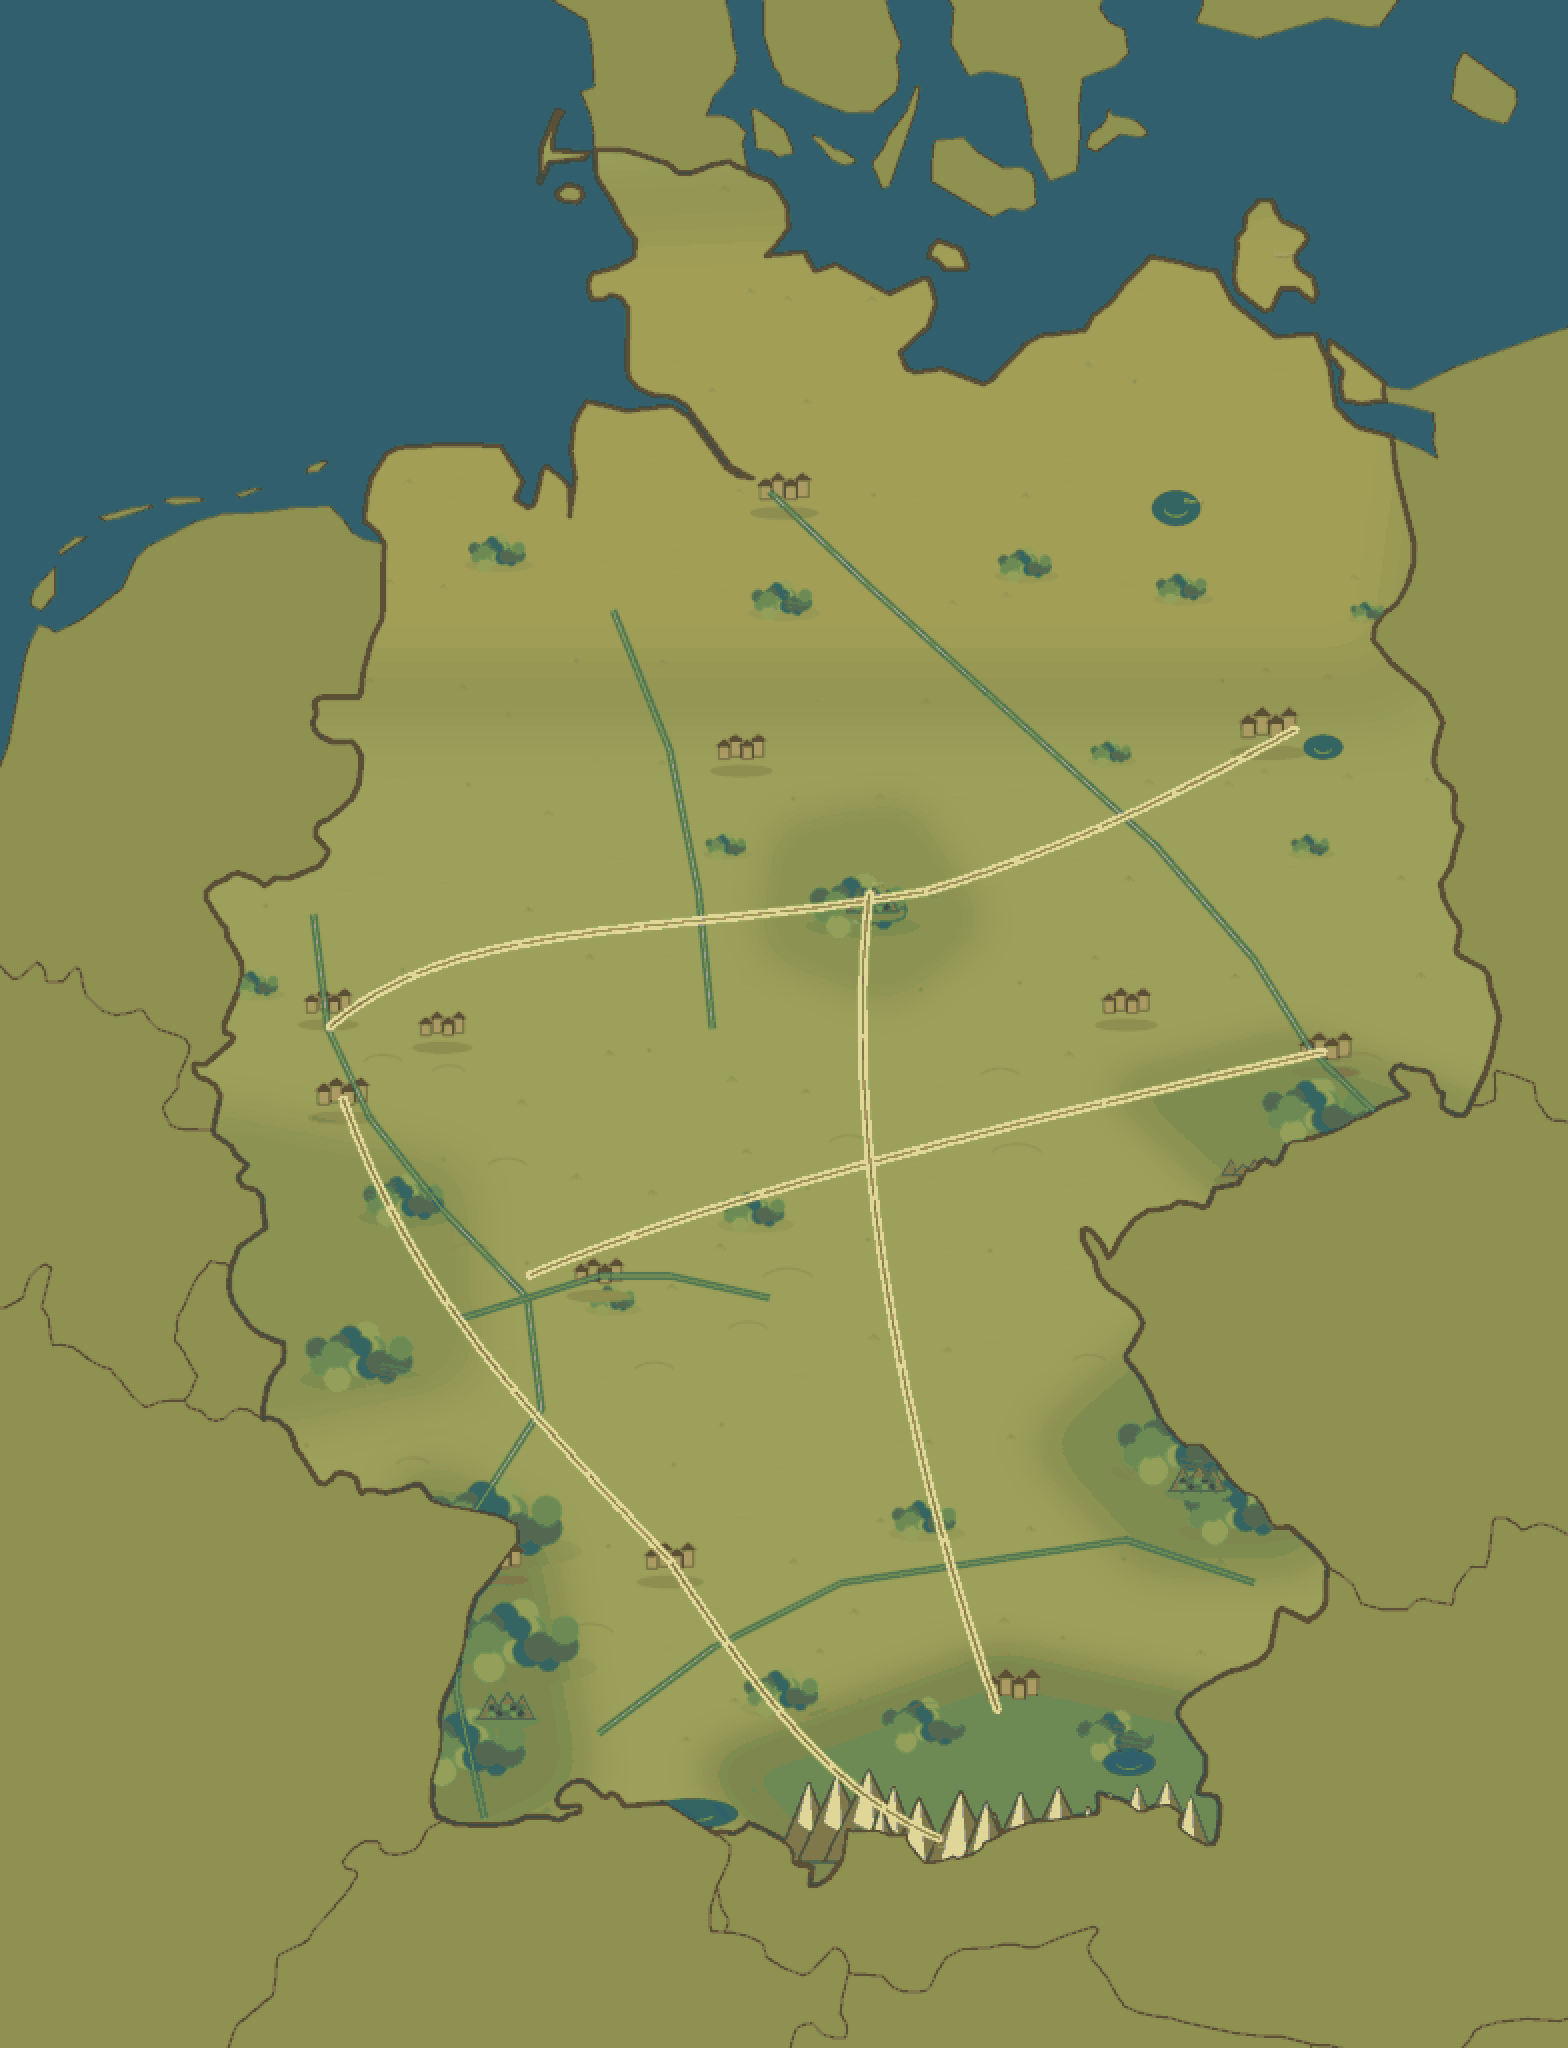
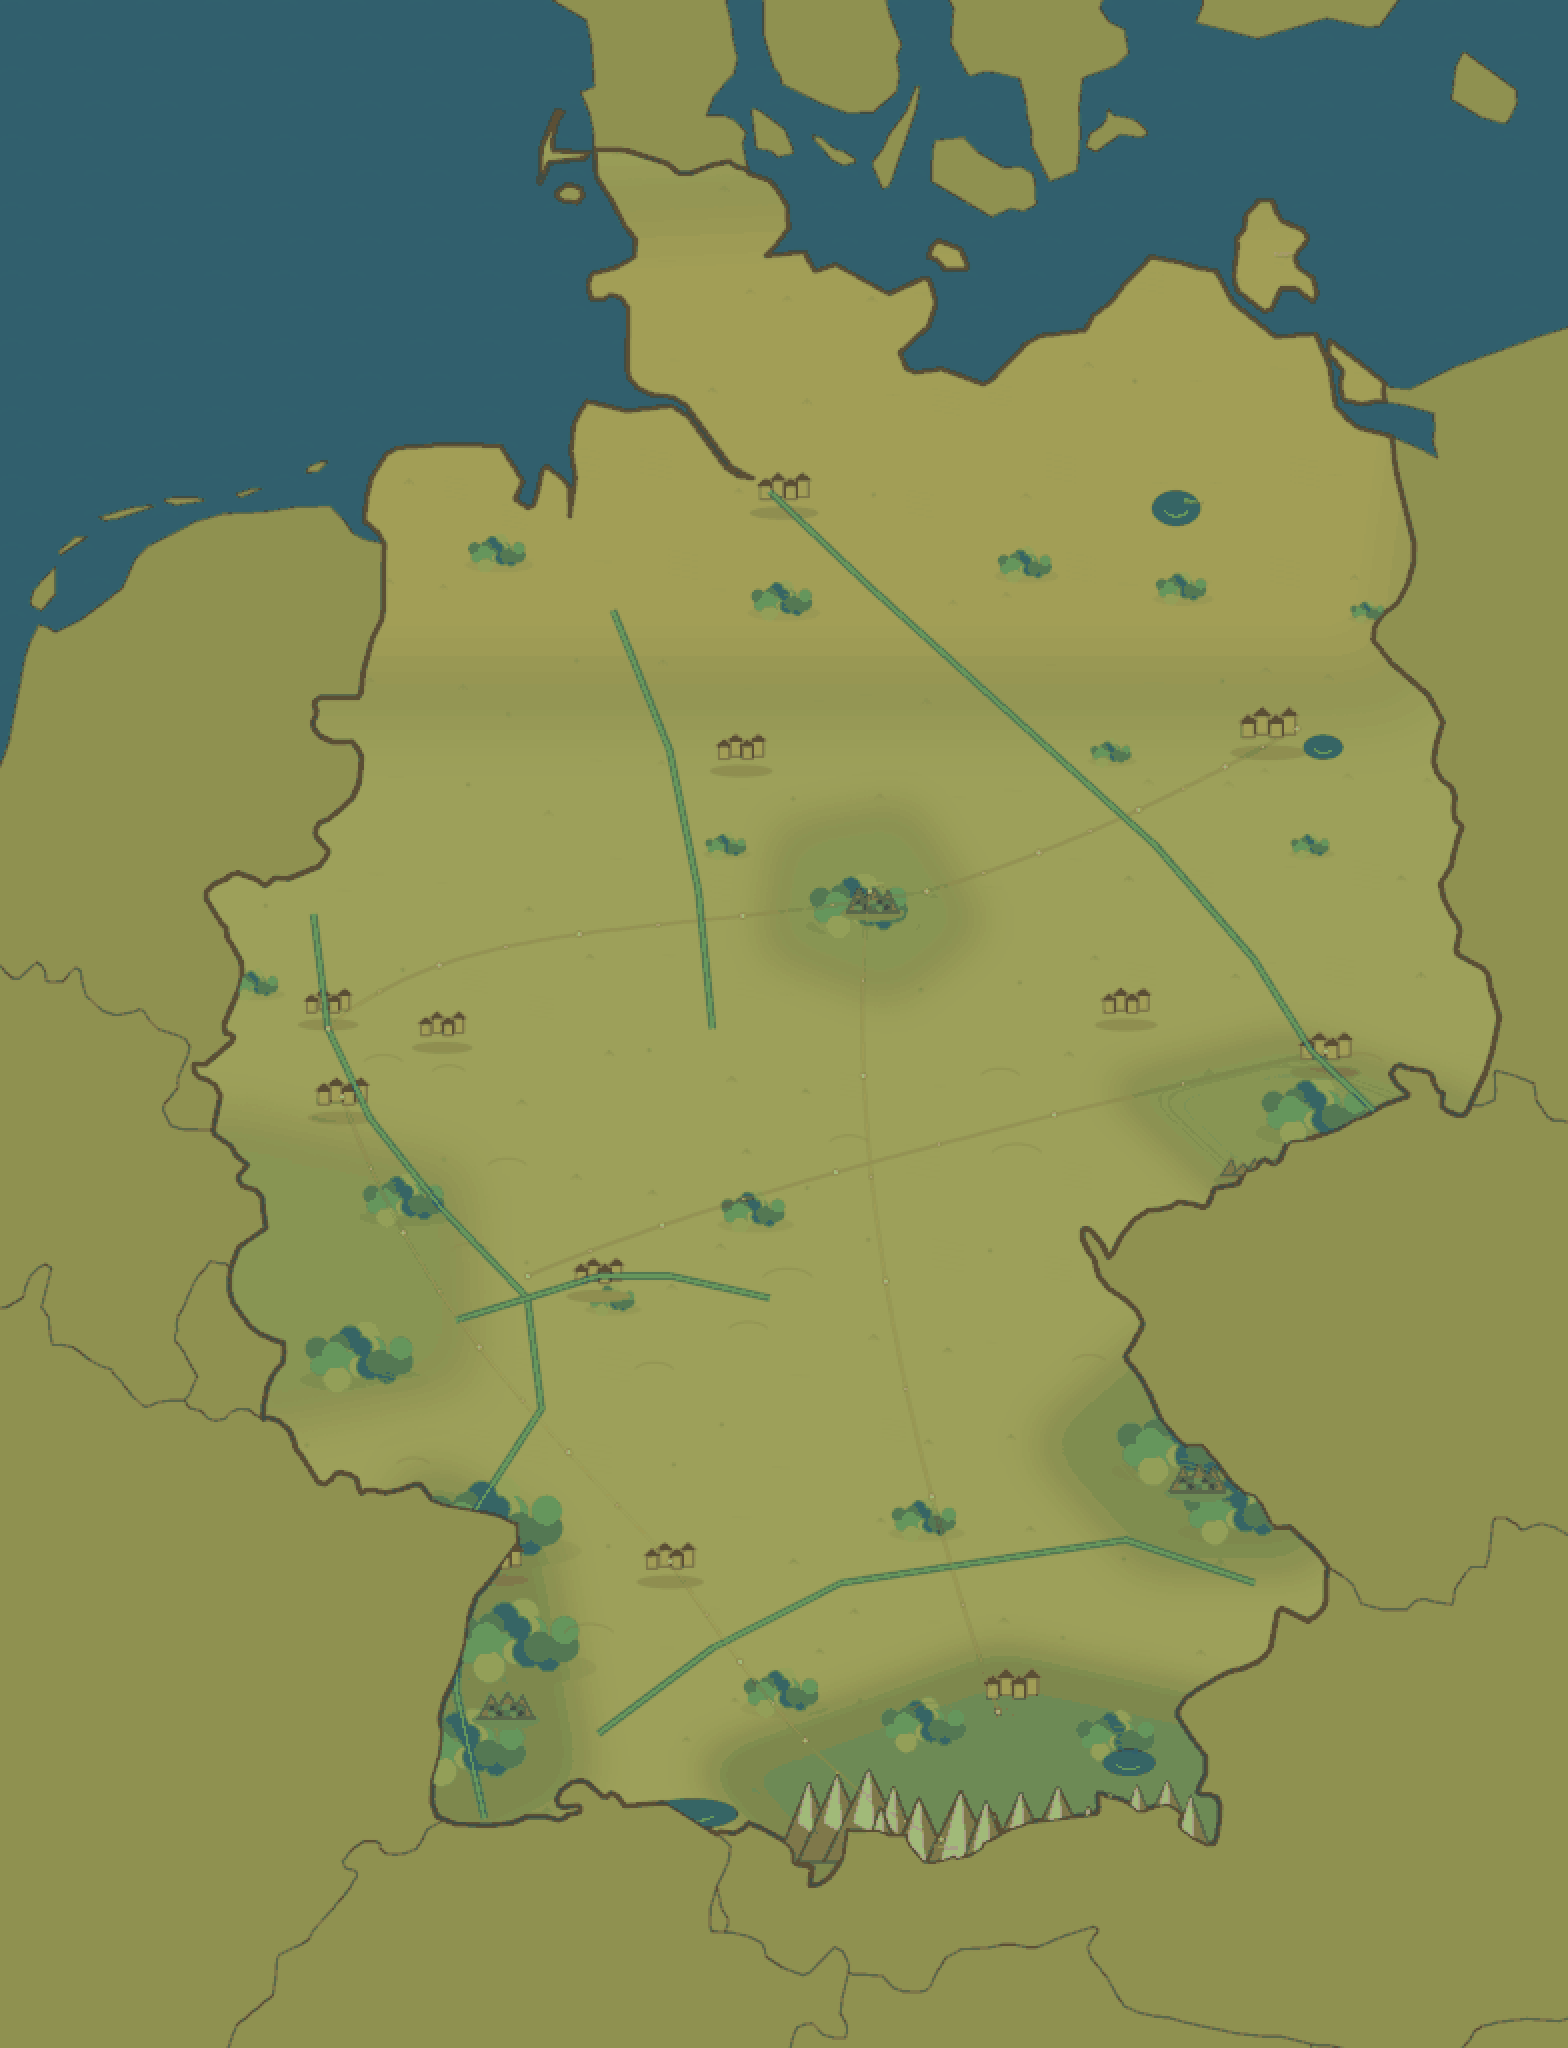
Tone down atlas routes for map readability

diff --git a/map_pipeline/compose_map.py b/map_pipeline/compose_map.py
@@ -478,14 +478,20 @@ def _draw_routes(canvas, proj, germany_mask):
     for route in routes:
         p0, p1, p2, p3 = [_project_point(proj, lon, lat) for lon, lat in route]
         pts = _bezier(p0, p1, p2, p3)
-        draw.line(pts, fill=(255, 239, 166, 214), width=9 * RENDER_SCALE, joint="curve")
-        draw.line(pts, fill=ROUTE_DARK, width=2 * RENDER_SCALE, joint="curve")
-        for p in pts[::16]:
-            rr = 2 * RENDER_SCALE
-            draw.ellipse((p[0] - rr, p[1] - rr, p[0] + rr, p[1] + rr), fill="#f2df98")
+        _draw_dotted_route(draw, pts)
     alpha = Image.composite(layer.getchannel("A"), Image.new("L", canvas.size, 0), germany_mask)
     layer.putalpha(alpha)
     canvas.alpha_composite(layer)
+
+
+def _draw_dotted_route(draw, pts):
+    draw.line(pts, fill=(79, 62, 37, 82), width=3 * RENDER_SCALE, joint="curve")
+    draw.line(pts, fill=(238, 214, 141, 92), width=max(1, RENDER_SCALE), joint="curve")
+    for index, p in enumerate(pts[::10]):
+        rr = (3 if index % 2 == 0 else 2) * RENDER_SCALE
+        draw.ellipse((p[0] - rr, p[1] - rr, p[0] + rr, p[1] + rr), fill=(75, 56, 32, 150))
+        inner = max(1, rr - RENDER_SCALE)
+        draw.ellipse((p[0] - inner, p[1] - inner, p[0] + inner, p[1] + inner), fill=(244, 224, 153, 226))
 
 
 def main():

diff --git a/tests/test_map_panel_contract.py b/tests/test_map_panel_contract.py
@@ -261,6 +261,8 @@ class MapPanelContractTest(unittest.TestCase):
             "def _draw_alpine_mountains(draw, x, y, s):",
             "def _draw_forested_highland(draw, x, y, s):",
             "def _draw_border_highland(draw, x, y, s):",
+            "def _draw_dotted_route(draw, pts):",
+            "_draw_dotted_route(draw, pts)",
         ]:
             self.assertIn(expected, pipeline_text)
 

diff --git a/docs/active-map-backlog.md b/docs/active-map-backlog.md
@@ -11,9 +11,9 @@
 - [ ] Разобраться с тем, почему пользователь может видеть старую версию с точками вместо city landmark icons: web rebuild, Godot import, browser cache, service worker/PWA/cache busting.
 - [ ] Довести city landmark layer: сделать иконки достаточно крупными, не перекрывать labels/markers, использовать правильные немецкие названия с умляутами.
 - [ ] Заменить cluster count badges на более нативные atlas group markers: сейчас они функциональны, но все еще выглядят как UI-счетчики.
-- [ ] #60 Убрать залитые фоновые плашки под транспортными пиктограммами: оставить сильный естественный outline/glow, чтобы объекты читались лучше городов и выглядели частью карты.
-- [ ] #61 Масштабировать транспортные и городские иконки вместе с zoom, но с максимальным порогом размера, чтобы пиксель-арт не раздувался.
-- [ ] #62 Перевести рельеф из декоративных гор в точные переиспользуемые overlay-слои: Alps, Harz, Black Forest, Erzgebirge, Bavarian Forest и другие реальные массивы.
+- [x] #60 Убрать залитые фоновые плашки под транспортными пиктограммами: оставить естественный outline/glow, чтобы объекты читались лучше городов и выглядели частью карты.
+- [x] #61 Масштабировать транспортные и городские иконки вместе с zoom, но с максимальным порогом размера, чтобы пиксель-арт не раздувался.
+- [ ] #62 Перевести рельеф из декоративных гор в точные переиспользуемые overlay-слои: Alps, Harz, Black Forest, Erzgebirge, Bavarian Forest и другие реальные массивы. Германия начата; нужно расширить и проверить слой по Европе.
 - [ ] #64 Провести terrain accuracy audit текущей Германии: убрать ложные большие горы у Hamburg/севера и проверить, что все видимые горы соответствуют реальности.
 - [ ] #63 Спроектировать Europe map pipeline для следующих стран и регионов: France, Spain, Italy, Switzerland, Austria, Germany neighbors, Scandinavia, Finland, Baltics, Russia, Belarus, Ukraine до украинских гор, Turkey; рельефные слои должны продолжаться через границы.
 - [ ] #63 Позже разбить большую Europe pipeline issue на маленькие блоки по странам/регионам/слоям, но пока держать общий список в одной issue, чтобы ничего не потерять.
@@ -24,5 +24,5 @@
 ## Current Known State
 
 - Карта на `http://127.0.0.1:9000/` пересобрана из `main`.
-- Последний map commit на момент обновления backlog: `cf96c68 Improve map first frame and cluster markers`.
-- Текущий рельеф подложки все еще считается blocker для `8/10+`: карта выглядит красиво, но горы местами географически неверны.
+- Последний map commit на момент обновления backlog: `7da7f67 Improve map relief accuracy and marker readability`.
+- Текущий рельеф Германии стал точнее и модульнее; blocker для `8/10+` сместился с грубой географической ошибки на art direction: underlay все еще плосковата относительно reference target, а dotted routes могут быть слишком тонкими.

diff --git a/docs/map-quality-audit-2026-05-31.md b/docs/map-quality-audit-2026-05-31.md
@@ -133,3 +133,16 @@ Screenshots:
 - `/tmp/cable-world-web-map/desktop-1280x800-map-v4.png`
 
 Rubric estimate after relief/marker iteration 2026-05-31 13:36: stronger 7/10 candidate. The map is more accurate and readable, but still not 8/10 because the procedural underlay is visually flatter than the reference and desktop/landscape composition needs another art-direction pass.
+
+Dotted route iteration result:
+
+- Procedural route strokes were changed from thick bright continuous lines to thin dotted atlas trails.
+- The intent is to keep routes as orientation hints without making the map look like a road diagram or competing with transport icons.
+- Fresh Web build remains on `http://127.0.0.1:9000/`; `index.pck` returns gzip and no-store headers.
+
+Screenshots:
+
+- `/tmp/cable-world-web-map/mobile-390x844-map-v5.png`
+- `/tmp/cable-world-web-map/desktop-1280x800-map-v5.png`
+
+Rubric estimate after dotted route iteration 2026-05-31 13:43: still 7/10 candidate, but closer to 8/10 on marker readability. Remaining risk: trails may now be too subtle and need a small contrast increase after user review.
